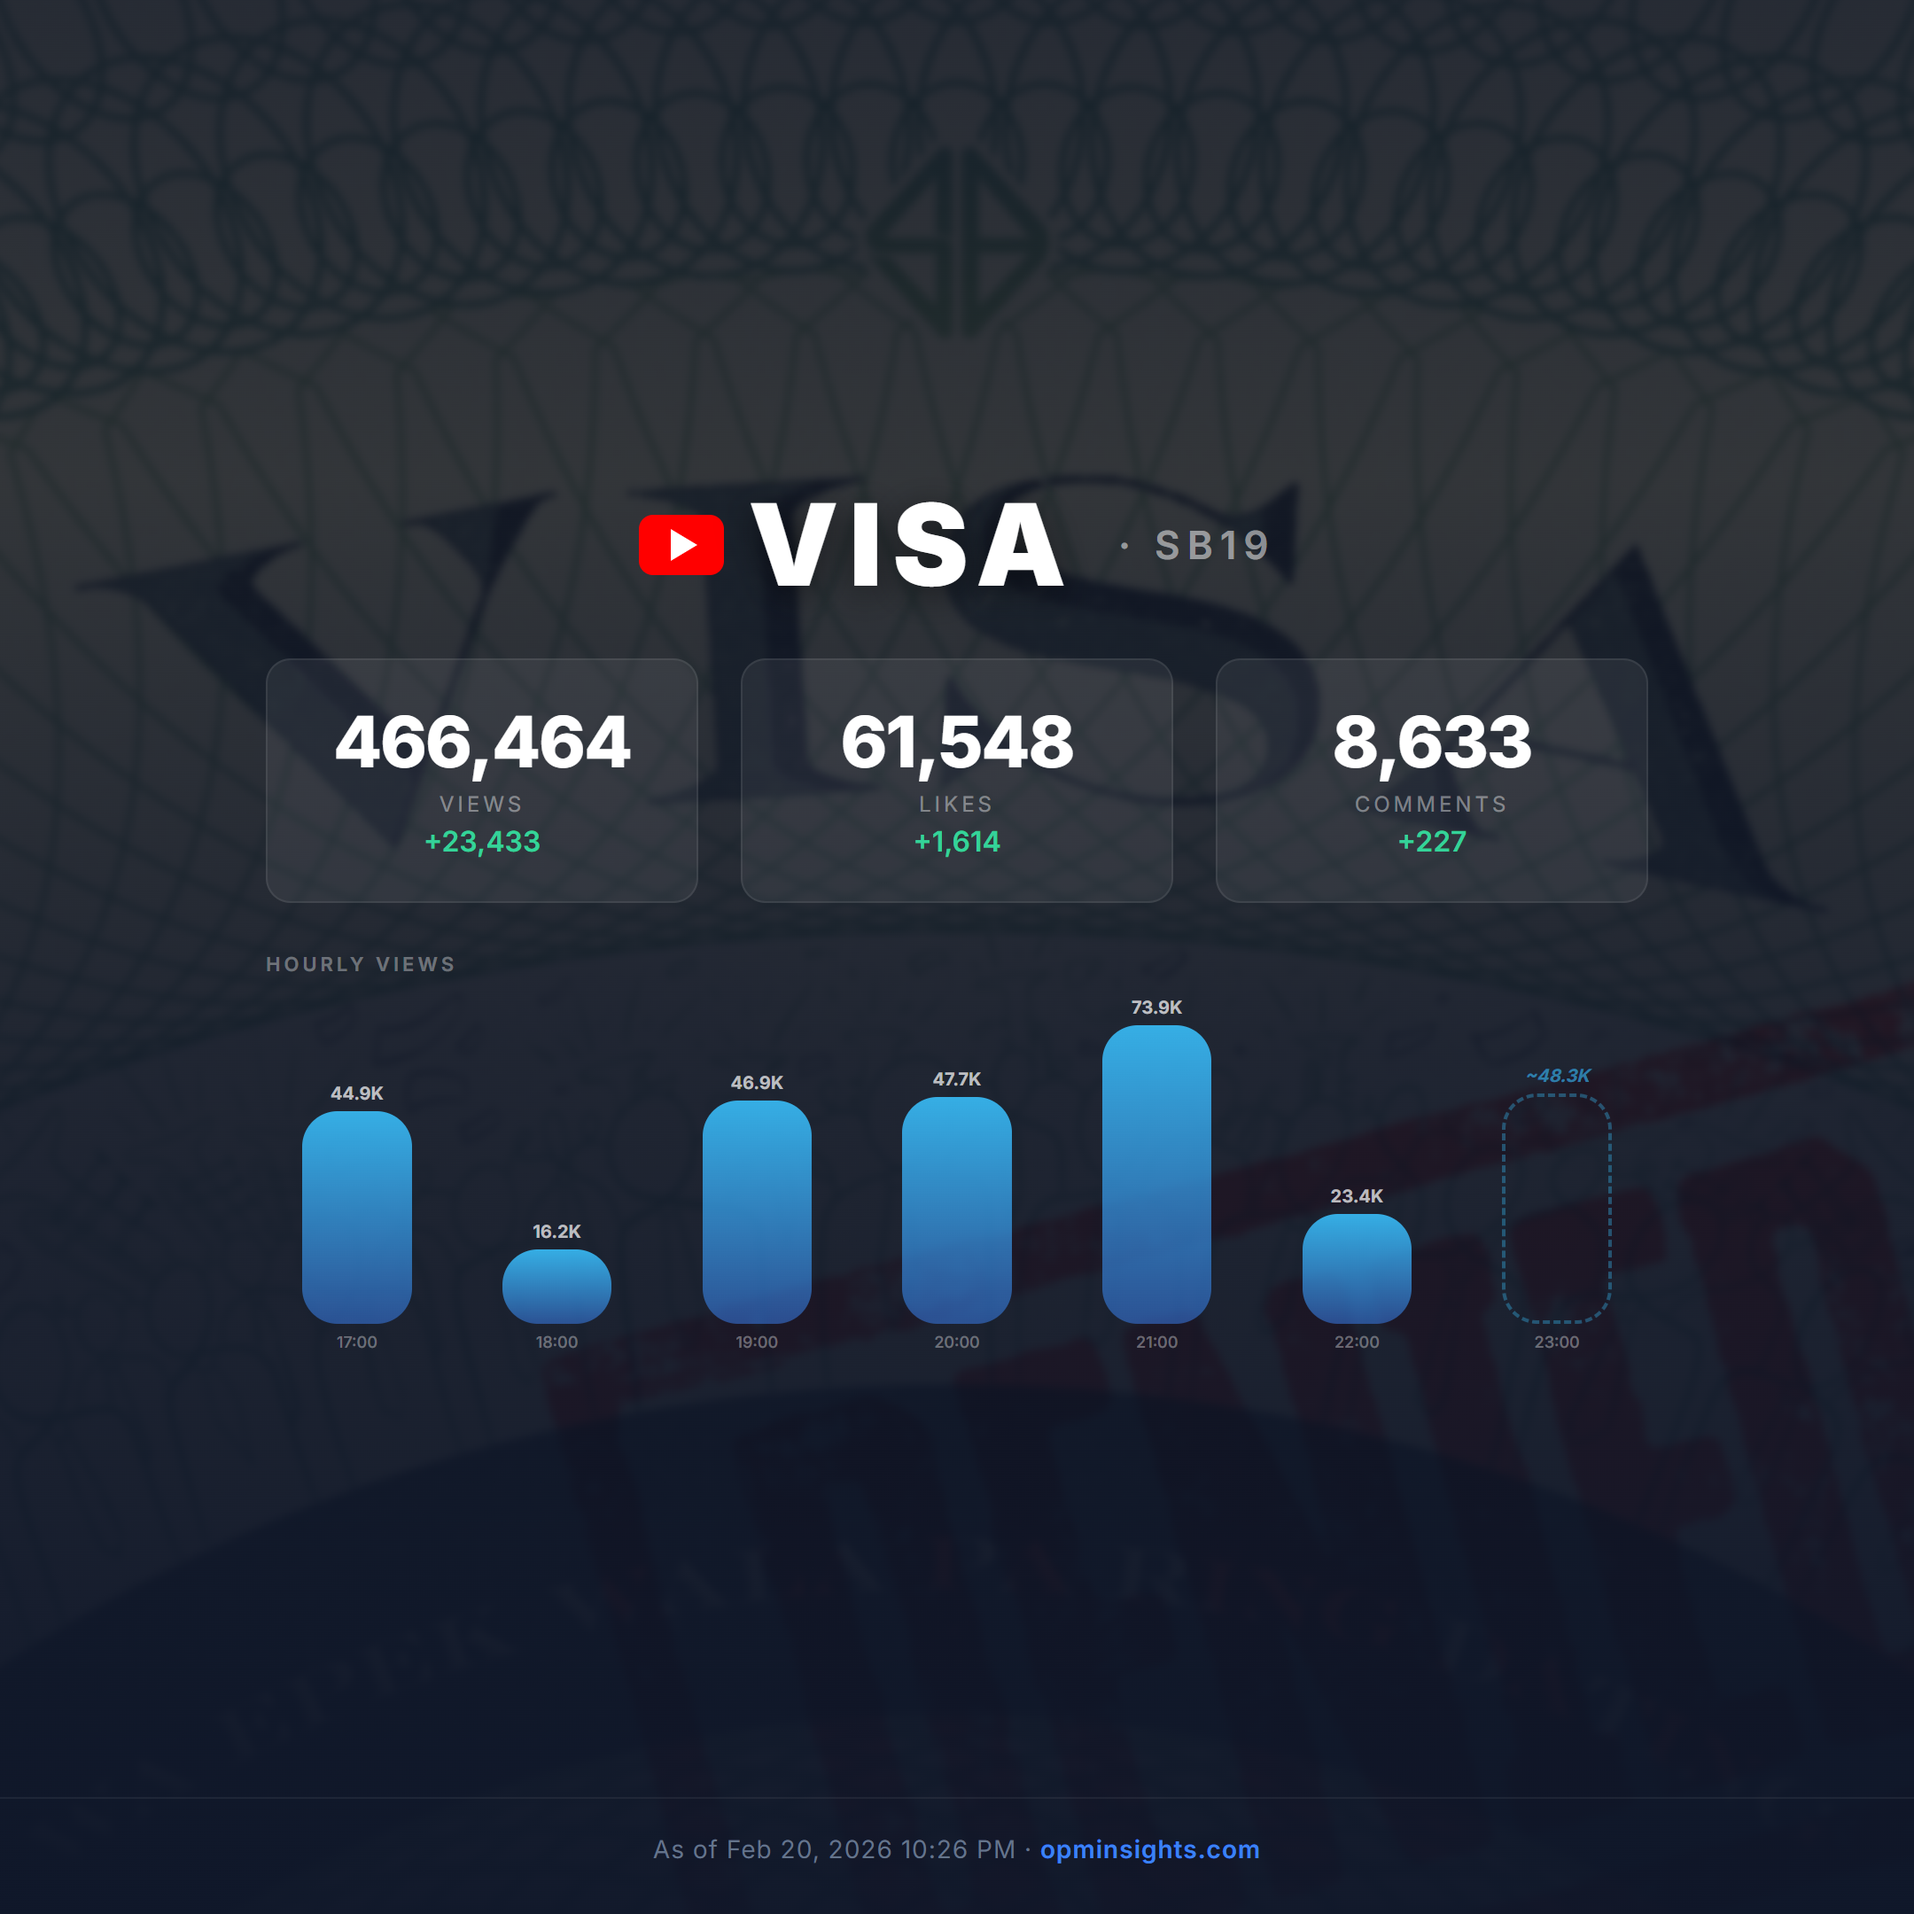
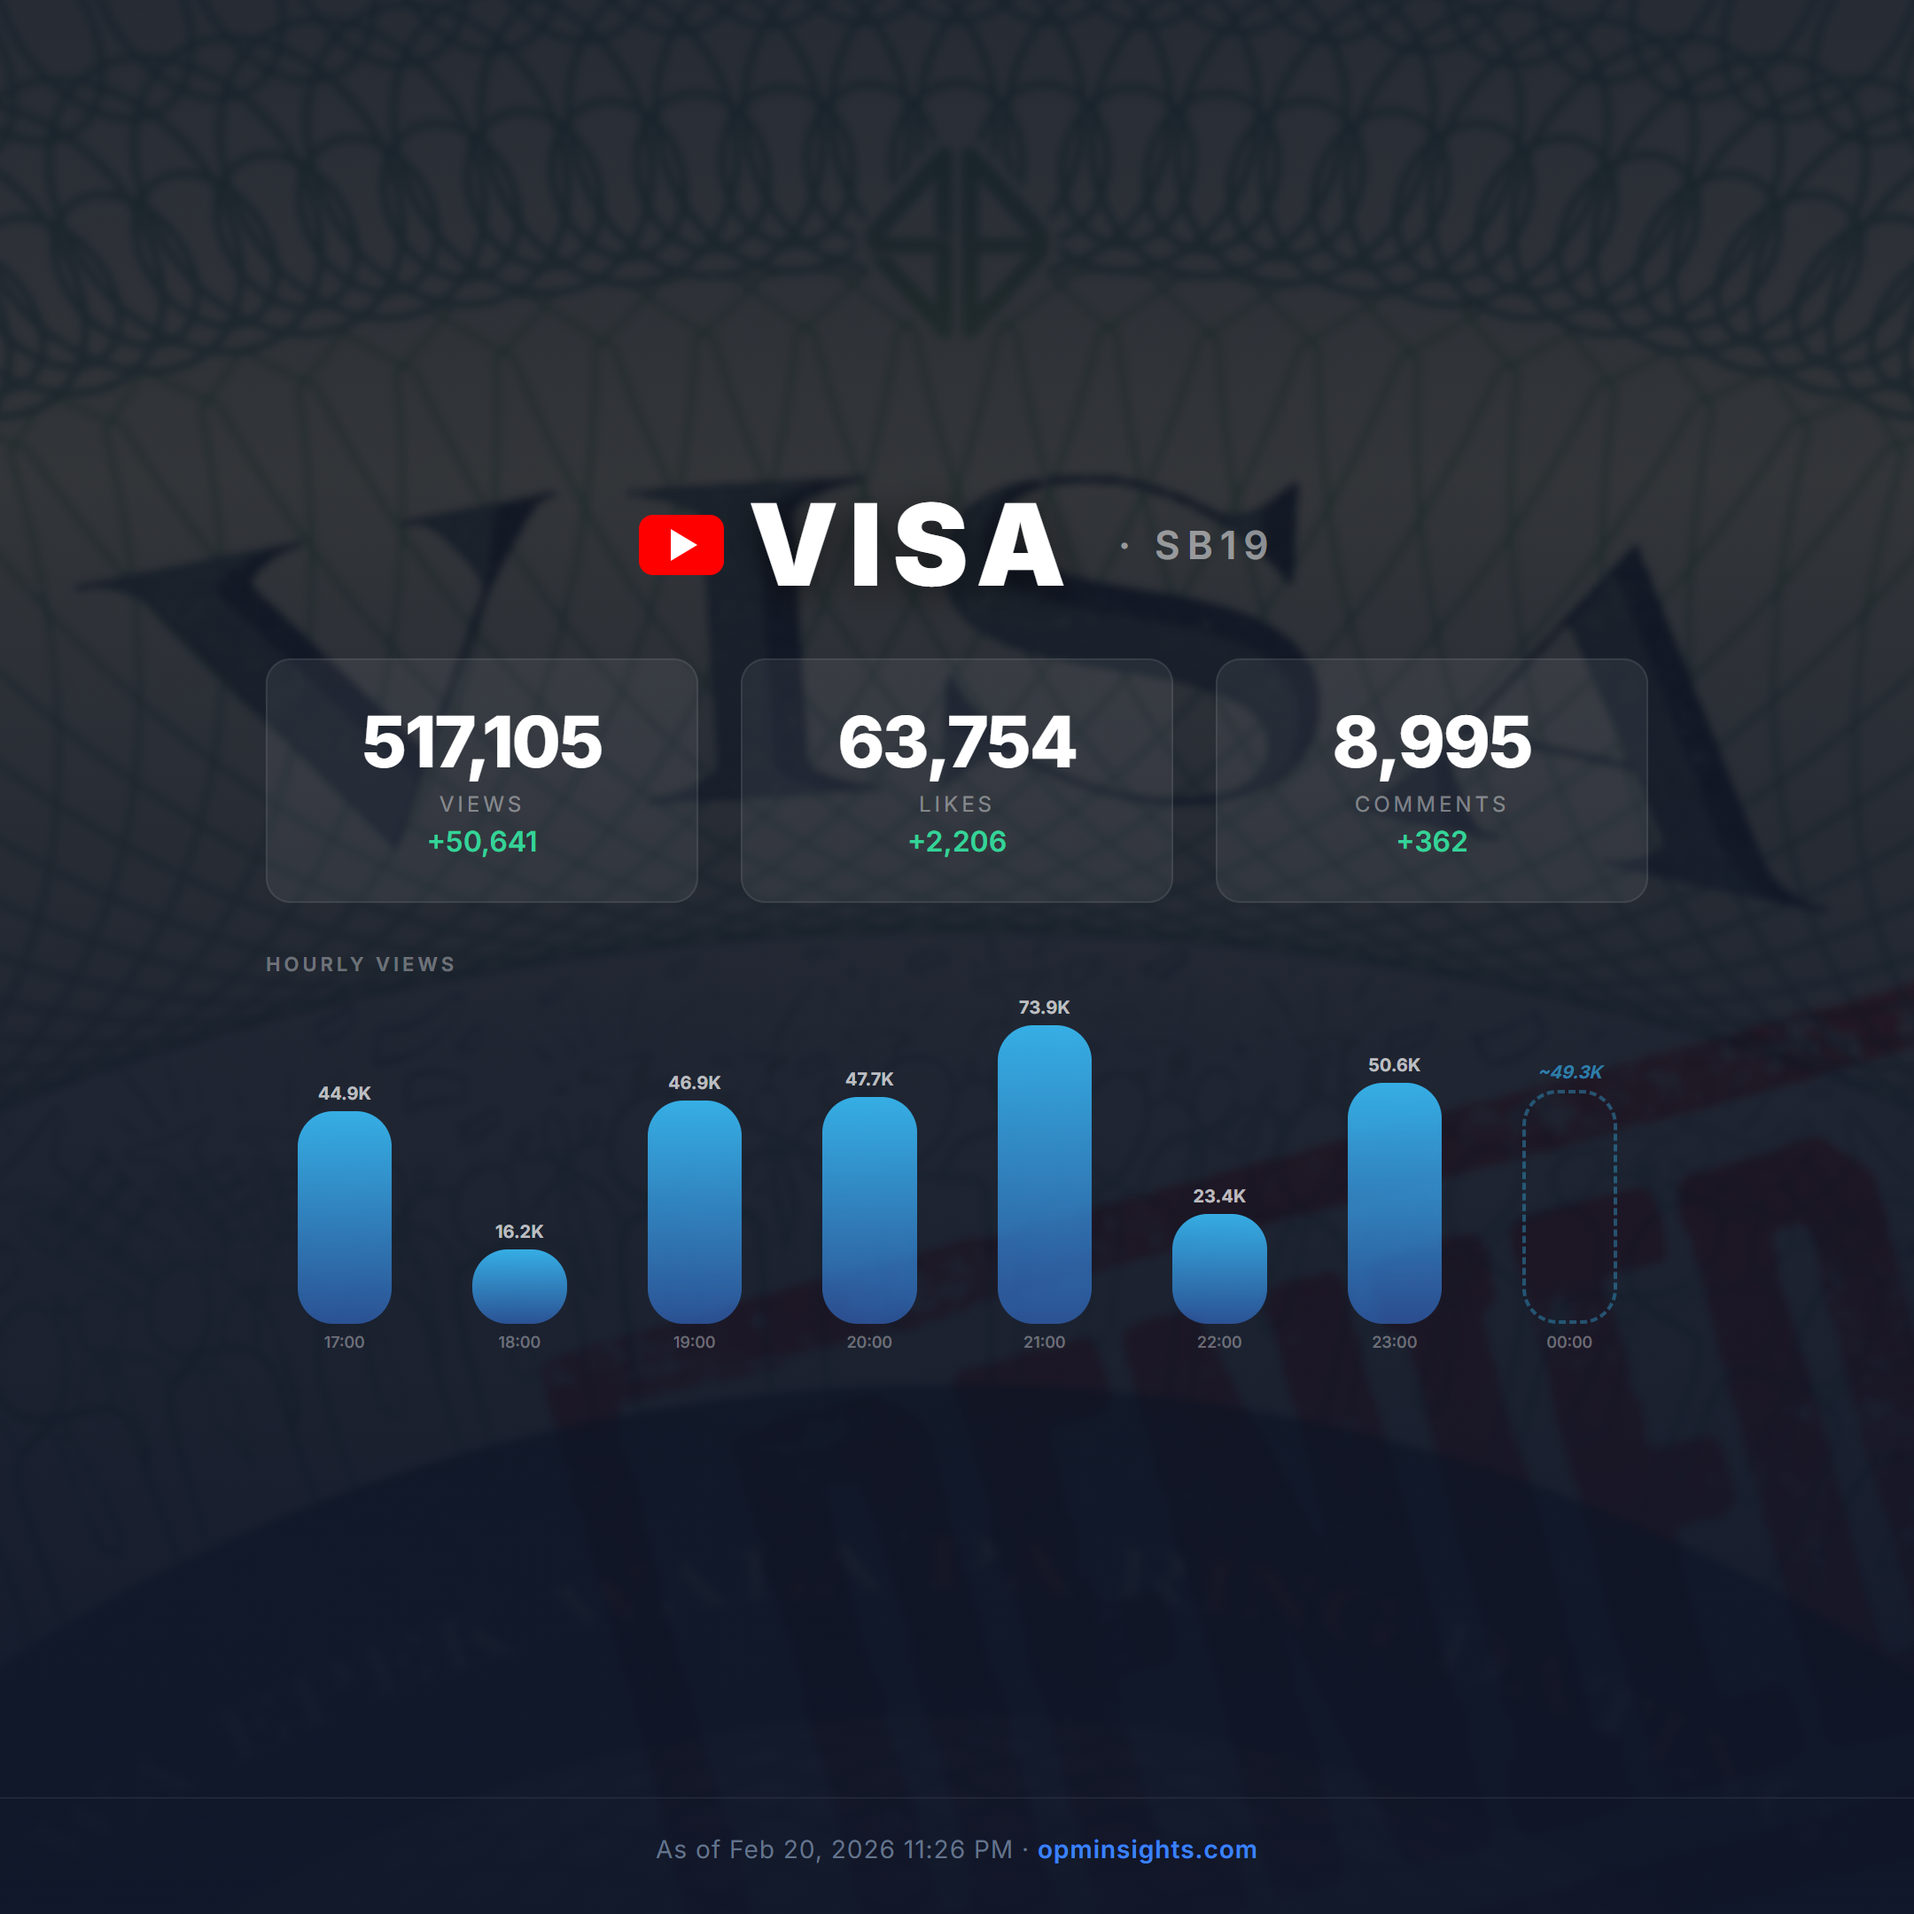
Fix admin user management to load all profiles via RPC
Use Supabase SECURITY DEFINER function to bypass RLS, with
fallback to direct query. Also update YT VISA tracking data.

diff --git a/users/index.html b/users/index.html
@@ -371,9 +371,17 @@
         }
 
         async function loadUsers() {
-            const { data, error } = await sb.from('profiles')
-                .select('id, email, full_name, subscription_tier, subscription_status, subscription_expires_at, is_admin, created_at')
-                .order('created_at', { ascending: false });
+            // Use RPC function (SECURITY DEFINER, bypasses RLS)
+            let data, error;
+            ({ data, error } = await sb.rpc('get_all_profiles'));
+
+            // Fallback to direct query if RPC not available
+            if (error) {
+                console.warn('RPC fallback:', error.message);
+                ({ data, error } = await sb.from('profiles')
+                    .select('id, email, full_name, subscription_tier, subscription_status, subscription_expires_at, is_admin, created_at')
+                    .order('created_at', { ascending: false }));
+            }
 
             if (error) {
                 console.error('Failed to load users:', error);
